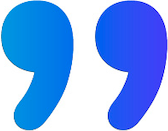
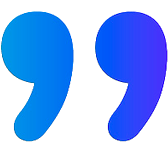
modifications

diff --git a/tmp_unlisted/generators/fiche-metier/index.html b/tmp_unlisted/generators/fiche-metier/index.html
@@ -792,8 +792,12 @@ var TRAIT_ORIGIN_GAP = 20;
       });
     }
 
-    // 0) Au montage : tente de charger les fichiers template par défaut
+    // 0) Au montage : tente de charger les fichiers template par défaut.
+    //    Sauf pendant un export serveur (#exportkey) : la page rouverte a déjà
+    //    reçu les vraies images de l'utilisateur, et ces chargements — qui
+    //    arrivent plus tard, en asynchrone — les écraseraient par les templates.
     useEffect(function () {
+      if (/exportkey=/.test(location.hash || "")) return;
       function tryLoad(filename, onSuccess) {
         var img = new Image();
         img.onload = function () {
@@ -929,8 +933,28 @@ var TRAIT_ORIGIN_GAP = 20;
       if(currentId) localStorage.setItem("sm_last_id_fichemetier", currentId);
     },[currentId,currentName,dirty,state]);
 
-    /* Restauration du dernier projet ouvert */
+    /* Restauration de l'état : #exportkey d'abord, puis dernier projet ouvert.
+
+       #EXPORTKEY — INDISPENSABLE DEPUIS LE PASSAGE AU MOTEUR COMMUN.
+       Le serveur d'export (Puppeteer) ne photographie pas cette page-ci : il
+       ROUVRE l'URL dans un Chrome à part, avec « #exportkey=… » qui désigne
+       l'état déposé dans localStorage. Une page qui ignore ce fragment
+       redémarre sur son état par défaut — donc sans aucune image — et c'est
+       exactement cette carte vide que le serveur capture. Les autres
+       générateurs lisent le fragment via Shell.useApp ; Fiche Métier a son
+       propre état, il doit donc le lire lui-même. */
     React.useEffect(function(){
+      var m = (location.hash||"").match(/exportkey=([^&#]+)/);
+      if(m){
+        try{
+          var raw = localStorage.getItem(decodeURIComponent(m[1]));
+          if(raw){
+            setState(Object.assign({}, DEFAULT_STATE, JSON.parse(raw), { portraitTraits: null }));
+            localStorage.removeItem(decodeURIComponent(m[1]));
+            return;   /* export en cours : ne pas écraser avec le dernier projet */
+          }
+        }catch(err){}
+      }
       var lastId = localStorage.getItem("sm_last_id_fichemetier");
       if(!lastId) return;
       smStore.get(lastId, function(rec){
@@ -1027,7 +1051,22 @@ var TRAIT_ORIGIN_GAP = 20;
 
         e("div", { className: "section" },
           e("h2", null, "Citation"),
-          e("textarea", { spellCheck: true, rows: 3, value: state.quote, onChange: function (ev) { set("quote", ev.target.value); } }))
+          e("textarea", { spellCheck: true, rows: 3, value: state.quote, onChange: function (ev) { set("quote", ev.target.value); } })),
+
+        /* TRADUCTION — placée ici, au bout de l'onglet Contenu : elle réécrit
+           les champs juste au-dessus (badge, poste, missions, citation). Elle
+           vivait dans l'onglet Export, loin de ce qu'elle modifie. */
+        e("div", { className: "section" },
+          e("h2", null, "Traduction IA"),
+          e("div", { className: "hint", style: { marginBottom: 10 } },
+            "Traduit badge, poste, missions et citation via DeepL Free."),
+          e("button", { onClick: translate, disabled: isTranslating,
+            style: { width: "100%", display: "flex", alignItems: "center", justifyContent: "center",
+              gap: 8, fontSize: 13, fontWeight: 700, padding: "10px", borderRadius: 7,
+              border: "1px solid #d4d4d4", background: isTranslating ? "#f5f5f5" : "#fff",
+              cursor: isTranslating ? "default" : "pointer", fontFamily: "inherit" } },
+            isTranslating ? "🌐 Traduction en cours…" : ("🌐 Traduire → " + (state.langTarget || "FR"))
+          ))
 
       ), /* /onglet Contenu */
 
@@ -1083,21 +1122,9 @@ var TRAIT_ORIGIN_GAP = 20;
       ), /* /onglet Médias */
 
       /* ══════════════════════════════════════════
-         ONGLET 3 — Export (traduction, sauvegardes, téléchargement)
+         ONGLET 3 — Export (sauvegardes, téléchargement)
          ══════════════════════════════════════════ */
       e("div", { className: "panel-tab-content" + (activeTab === "export" ? " on" : "") },
-
-        e("div", { className: "section" },
-          e("h2", null, "Traduction IA"),
-          e("div", { className: "hint", style: { marginBottom: 10 } },
-            "Traduit badge, poste, missions et citation via DeepL Free."),
-          e("button", { onClick: translate, disabled: isTranslating,
-            style: { width: "100%", display: "flex", alignItems: "center", justifyContent: "center",
-              gap: 8, fontSize: 13, fontWeight: 700, padding: "10px", borderRadius: 7,
-              border: "1px solid #d4d4d4", background: isTranslating ? "#f5f5f5" : "#fff",
-              cursor: isTranslating ? "default" : "pointer", fontFamily: "inherit" } },
-            isTranslating ? "🌐 Traduction en cours…" : ("🌐 Traduire → " + (state.langTarget || "FR"))
-          )),
 
         e(Shell.ui.ExportTab, { shell: fmShell, cardRef: cardRef })
 
@@ -1264,10 +1291,24 @@ var TRAIT_ORIGIN_GAP = 20;
           background: badgeGrad
         }
       },
-        e("svg", { viewBox: "0 0 24 24", width: BADGE_ICON_SIZE, height: BADGE_ICON_SIZE, fill: "none", stroke: "white", strokeWidth: 2 },
-          (state.badgeIconCustom||(window.PictoGallery&&window.PictoGallery.getSrc(state.badgeIconKey)))
-            ?e("image",{href:state.badgeIconCustom||(window.PictoGallery&&window.PictoGallery.getSrc(state.badgeIconKey)),x:0,y:0,width:24,height:24})
-            :e("g",null,e("path", { d: "M1 12s4-7 11-7 11 7 11 7-4 7-11 7-11-7-11-7z" }), e("circle", { cx: 12, cy: 12, r: 3 })))),
+        /* PICTOGRAMME DU CARTOUCHE.
+           On utilise un <img>, exactement comme les cartes partagées
+           (assets/cards/*.js). L'ancienne version dessinait un <image href>
+           à l'intérieur d'un <svg> : aucun moteur d'export ne sait incorporer
+           la source d'un <image> SVG — ni html2canvas, ni dom-to-image, qui
+           ne parcourent que les <img> et les url() CSS. Le pictogramme
+           disparaissait donc systématiquement du PNG téléchargé, quel que
+           soit le moteur. Avec un <img>, Shell.inlineImages le convertit en
+           data:URL avant capture, comme partout ailleurs. */
+        (function(){
+          var src = state.badgeIconCustom
+            || (window.PictoGallery && window.PictoGallery.getSrc(state.badgeIconKey))
+            || null;
+          if (src) return e("img", { src: src, alt: "", crossOrigin: "anonymous",
+            style: { width: BADGE_ICON_SIZE + "px", height: BADGE_ICON_SIZE + "px", objectFit: "contain" } });
+          return e("svg", { viewBox: "0 0 24 24", width: BADGE_ICON_SIZE, height: BADGE_ICON_SIZE, fill: "none", stroke: "white", strokeWidth: 2 },
+            e("path", { d: "M1 12s4-7 11-7 11 7 11 7-4 7-11 7-11-7-11-7z" }), e("circle", { cx: 12, cy: 12, r: 3 }));
+        })()),
       e("div", {
         style: {
           borderRadius: 10, overflow: "hidden",

diff --git a/tmp_unlisted/generators/carrousel/index.html b/tmp_unlisted/generators/carrousel/index.html
@@ -277,7 +277,41 @@ function CitationEditor(p){
         options:[{v:"photo",l:"Image"},{v:"grad",l:"Dégradé"},{v:"white",l:"Blanc"}]}),
       st.bgMode!=="grad"&&st.bgMode!=="white"?e("div",{style:{marginTop:10}},
         e(FileDrop,{value:st.bgImg,placeholder:"Photo de fond",
-          onChange:function(v){u("bgImg",v);u("bgCustom",true);}})):null));
+          onChange:function(v){u("bgImg",v);u("bgCustom",true);}})):null),
+    (function(){
+      /* Bornes et valeurs courantes lues dans le module de carte, jamais
+         recopiées : si la charte change, ce panneau suit sans être touché. */
+      var g=SPGCards.get("citation").geometry(st,0);
+      var isT03=(st.template==="t03");
+      return e(UI.Section,{title:"Mise en page"},
+        e("label",{className:"field-label"},"Gabarit"),
+        e(UI.SegButtons,{value:isT03?"t03":"libre",
+          onChange:function(v){u("template",v==="t03"?"t03":"libre");},
+          options:[{v:"libre",l:"Style libre"},{v:"t03",l:"Template 03"}]}),
+        e("div",{style:{height:12}}),
+        e(UI.SliderField,{
+          label:"Taille du texte — "+g.cfs+" pt"+(st["fs_"+st.format]?"":" (défaut)"),
+          min:g.QUOTE_FONT_MIN,max:g.QUOTE_FONT_MAX,step:1,value:g.cfs,
+          onChange:function(v){u("fs_"+st.format,Math.round(v));}}),
+        e("button",{className:"mini-btn",style:{marginTop:4},
+          onClick:function(){u("fs_"+st.format,0);}},"Taille par défaut"),
+        isT03
+          ? e("div",{style:{marginTop:12}},
+              e(UI.SliderField,{label:"Largeur du bloc — "+(st["blockW_t03_"+st.format]||75)+" %",
+                min:50,max:95,step:5,value:st["blockW_t03_"+st.format]||75,
+                onChange:function(v){u("blockW_t03_"+st.format,Math.round(v));}}))
+          : e("div",{style:{marginTop:12}},
+              e("label",{className:"field-label"},"Alignement horizontal"),
+              e(UI.SegButtons,{value:st.blockAlign||"center",
+                onChange:function(v){u("blockAlign",v);},
+                options:[{v:"left",l:"← Gauche"},{v:"center",l:"↔ Centre"},{v:"right",l:"Droite →"}]}),
+              e("div",{style:{height:10}}),
+              e(UI.SliderField,{label:"Largeur — "+g.curPct+" %"+(st["blockPct_"+st.format]?"":" (natif)"),
+                min:30,max:90,step:1,value:g.curPct,
+                onChange:function(v){u("blockPct_"+st.format,Math.round(v));}}),
+              e("button",{className:"mini-btn",style:{marginTop:4},
+                onClick:function(){u("blockPct_"+st.format,0);}},"Largeur native")));
+    })());
 }
 
 function LatestNewsEditor(p){
@@ -307,6 +341,19 @@ function LatestNewsEditor(p){
           e(UI.SegButtons,{value:b.type||"encadre",onChange:function(v){updBloc(i,"type",v);},
             options:[{v:"encadre",l:"Encadré"},{v:"texte",l:"Texte nu"}]}),
           e("div",{style:{height:8}}),
+          e("label",{className:"field-label"},"Alignement"),
+          e(UI.SegButtons,{value:b.align||"left",onChange:function(v){updBloc(i,"align",v);},
+            options:[{v:"left",l:"← Gauche"},{v:"right",l:"Droite →"}]}),
+          e("div",{style:{height:8}}),
+          (function(){
+            var L=SPGCards.get("latestnews").geometry(st,0).L;
+            var bfs=Math.max(L.TEXT_MIN,Math.min(L.TEXT_MAX,b["fs_"+st.format]||L.TEXT_DEF));
+            return e(React.Fragment,null,
+              e(UI.SliderField,{label:"Taille du texte — "+Math.round(bfs)+" pt",
+                min:L.TEXT_MIN,max:L.TEXT_MAX,step:1,value:bfs,
+                onChange:function(v){updBloc(i,"fs_"+st.format,Math.round(v));}}),
+              e("div",{style:{height:8}}));
+          })(),
           e("label",{className:"toggle"},
             e("input",{type:"checkbox",checked:!!b.inverted,
               onChange:function(ev){updBloc(i,"inverted",ev.target.checked);}}),
@@ -343,7 +390,15 @@ function SplitScreenEditor(p){
       e("div",{style:{height:10}}),
       e("label",{className:"field-label"},"Couleur du pavé"),
       e(UI.SegButtons,{value:st.textMode||"grad",onChange:function(v){u("textMode",v);},
-        options:[{v:"uni",l:"Couleur unie"},{v:"grad",l:"Dégradé"}]})));
+        options:[{v:"uni",l:"Couleur unie"},{v:"grad",l:"Dégradé"}]}),
+      e("div",{style:{height:12}}),
+      (function(){
+        var L=SPGCards.get("splitscreen").getLayout(st.format,{hasML:!!st.hasML});
+        var fs=Math.max(L.TEXT_MIN,Math.min(L.TEXT_MAX,st["fs_"+st.format]||L.TEXT_DEF));
+        return e(UI.SliderField,{label:"Taille du texte — "+Math.round(fs)+" px",
+          min:L.TEXT_MIN,max:L.TEXT_MAX,step:1,value:fs,
+          onChange:function(v){u("fs_"+st.format,Math.round(v));}});
+      })()));
 }
 
 function BlockLayoutsEditor(p){
@@ -396,7 +451,28 @@ function BlockLayoutsEditor(p){
       }),
       blocks.length<4?e("button",{className:"mini-btn",style:{width:"100%",padding:"8px 0"},
         onClick:function(){setBlocks(blocks.concat([SPGCards.get("blocklayouts").newBlock("body")]));}},
-        "+ Ajouter un bloc"):null));
+        "+ Ajouter un bloc"):null),
+    (function(){
+      var g=SPGCards.get("blocklayouts").geometry(st);
+      var CAL=chTypo("blockLayout","callout"), BOD=chTypo("blockLayout","body");
+      return e(UI.Section,{title:"Mise en page"},
+        e("label",{className:"field-label"},"Alignement des blocs"),
+        e(UI.SegButtons,{value:st.blocksAlign||"left",
+          onChange:function(v){p.onChange("blocksAlign",v);},
+          options:[{v:"left",l:"← Gauche"},{v:"right",l:"Droite →"}]}),
+        e("div",{style:{height:12}}),
+        e(UI.SliderField,{label:"Taille chiffre — "+g.calloutSize+" pt (charte "+CAL.min+"-"+CAL.max+")",
+          min:CAL.min,max:CAL.max,step:1,value:g.calloutSize,
+          onChange:function(v){p.onChange("cs_"+st.format,Math.round(v));}}),
+        e("div",{style:{height:8}}),
+        e(UI.SliderField,{label:"Taille texte — "+g.bodySize+" pt (charte "+BOD.min+"-"+BOD.max+")",
+          min:BOD.min,max:BOD.max,step:1,value:g.bodySize,
+          onChange:function(v){p.onChange("bs_"+st.format,Math.round(v));}}),
+        e("div",{style:{height:8}}),
+        e(UI.SliderField,{label:"Remonter les blocs — "+(st["off_"+st.format]||0)+" px",
+          min:0,max:400,step:5,value:st["off_"+st.format]||0,
+          onChange:function(v){p.onChange("off_"+st.format,Math.round(v));}}));
+    })());
 }
 
 var EDITORS={citation:CitationEditor,latestnews:LatestNewsEditor,

diff --git a/tmp_unlisted/assets/app-shell.js b/tmp_unlisted/assets/app-shell.js
@@ -561,9 +561,24 @@ Shell.exportNode = function(node, opts){
 
   /* ── 1. Serveur Puppeteer, uniquement en local ── */
   var viaServeur;
+  /* Le dépôt de l'état dans localStorage doit RÉUSSIR pour que le serveur ait
+     quelque chose à rouvrir. Un état qui contient des images en data:URL pèse
+     vite plusieurs mégaoctets et dépasse le quota (~5 Mo) : l'écriture échoue,
+     et si on continuait quand même, le serveur rouvrirait la page sur son état
+     par défaut et renverrait une carte sans images. On repasse donc au repli
+     local, qui lui photographie la carte réellement affichée. */
+  var etatDepose = false, cle = null;
   if(serveurJoignable() && opts.stateForServer){
-    var cle = "wie_export_" + Date.now();
-    try{ localStorage.setItem(cle, JSON.stringify(opts.stateForServer)); }catch(er){}
+    cle = "wie_export_" + Date.now();
+    try{
+      localStorage.setItem(cle, JSON.stringify(opts.stateForServer));
+      etatDepose = !!localStorage.getItem(cle);
+    }catch(er){
+      etatDepose = false;
+      try{ localStorage.removeItem(cle); }catch(e2){}
+    }
+  }
+  if(etatDepose){
     var url = global.location.href.split("#")[0] + "#exportkey=" + cle;
     viaServeur = fetch(Shell.EXPORT_SERVER + "/ping", {signal:AbortSignal.timeout(1500)})
       .then(function(r){
@@ -605,7 +620,12 @@ Shell.exportNode = function(node, opts){
       .catch(function(err){ if(restaurer) restaurer(); throw err; });
   }
 
-  return viaServeur.catch(viaDomToImage).then(function(blob){
+  return viaServeur.catch(function(err){
+    /* Le serveur n'a pas répondu : la clé déposée ne sera jamais consommée par
+       la page rouverte, on la retire pour ne pas encombrer localStorage. */
+    if(cle){ try{ localStorage.removeItem(cle); }catch(e){} }
+    return viaDomToImage();
+  }).then(function(blob){
     if(opts.download !== false) global.SaveManager.downloadBlob(blob, fname);
     return blob;
   });
@@ -963,6 +983,21 @@ Shell.ui.ExportTab = function(p){
 
   return e(R.Fragment,null,
 
+    /* ORDRE DES SECTIONS — le téléchargement en premier.
+       C'est le geste le plus fréquent une fois la carte prête ; le placer
+       sous la liste des sauvegardes obligeait à faire défiler tout le
+       panneau à chaque export. */
+    /* Section Export PNG */
+    e(Shell.ui.Section,{title:"Export"},
+      p.exportHint?e("div",{className:"hint",style:{marginBottom:8}},p.exportHint):null,
+      e("button",{className:"tab-nav-btn primary",
+        style:{width:"100%",justifyContent:"center",padding:"10px",marginTop:4},
+        onClick:function(){p.shell.doExport(p.cardRef);},
+        disabled:p.shell.busy},
+        p.shell.busy?e("span",{className:"spin"},e(IcoDl)):e(IcoDl),
+        "\xa0",
+        p.shell.busy?"Export\u2026":(p.exportLabel||"T\xe9l\xe9charger le PNG"))),
+
     /* Section Sauvegardes */
     e(Shell.ui.Section,{title:"Sauvegardes"},
 
@@ -1041,18 +1076,7 @@ Shell.ui.ExportTab = function(p){
           onChange:function(ev){
             var f=ev.target.files&&ev.target.files[0];
             if(f) store.importJson(f,function(){ refresh(); });
-          }}))),
-
-    /* Section Export PNG */
-    e(Shell.ui.Section,{title:"Export"},
-      p.exportHint?e("div",{className:"hint",style:{marginBottom:8}},p.exportHint):null,
-      e("button",{className:"tab-nav-btn primary",
-        style:{width:"100%",justifyContent:"center",padding:"10px",marginTop:4},
-        onClick:function(){p.shell.doExport(p.cardRef);},
-        disabled:p.shell.busy},
-        p.shell.busy?e("span",{className:"spin"},e(IcoDl)):e(IcoDl),
-        "\xa0",
-        p.shell.busy?"Export\u2026":(p.exportLabel||"T\xe9l\xe9charger le PNG")))
+          }})))
   );
 };
 

diff --git a/tmp_unlisted/assets/cards/citation-card.js b/tmp_unlisted/assets/cards/citation-card.js
@@ -197,7 +197,11 @@ function geometry(st,quoteH){
   var L=getCiteLayout(st.format), CARD_H=L.CARD_H;
   var _cfs=st["fs_"+st.format]||0;
   var isT03=(st.template==="t03");
-  var QUOTE_FONT_MIN=isT03?30:45, QUOTE_FONT_MAX=isT03?60:80;
+  /* Plancher abaissé à 15 pt : demandé pour les citations longues, qui
+     dépassaient du bloc au minimum précédent (30/45). Le plafond ne bouge
+     pas. Ces valeurs sont exprimées dans l'unité de dessin de la carte —
+     la même que celle affichée par le curseur du panneau. */
+  var QUOTE_FONT_MIN=15, QUOTE_FONT_MAX=isT03?60:80;
   var cfs=_cfs?Math.max(QUOTE_FONT_MIN,Math.min(QUOTE_FONT_MAX,_cfs)):L.QUOTE_FONT;
 
   var _fmt=st.format;

diff --git a/tmp_unlisted/assets/cards/split-screen-card.js b/tmp_unlisted/assets/cards/split-screen-card.js
@@ -182,6 +182,7 @@ SPGCards.register("splitscreen",{
   DEFAULT:DEFAULT,
   shared:SPGCards.COMMON_SHARED,
   cardHeight:cardHeight,
+  getLayout:getLayout,         /* exposé : le Carrousel y lit TEXT_MIN/MAX/DEF */
   computeRects:computeRects,   /* exposé : le panneau en a besoin pour maxZoom */
   Card:SplitScreenCard
 });
